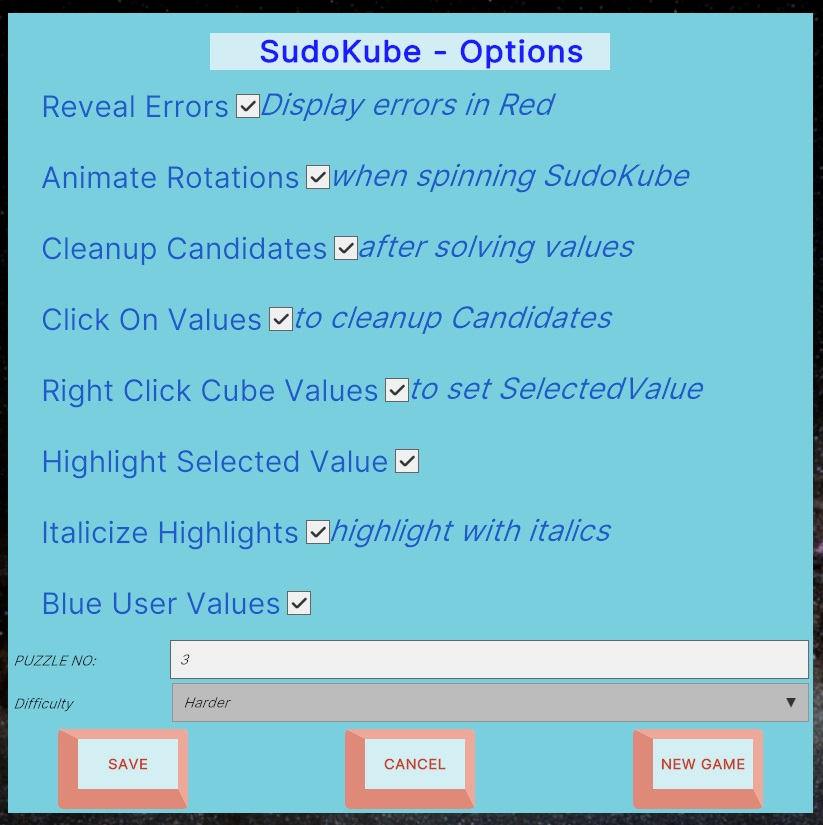
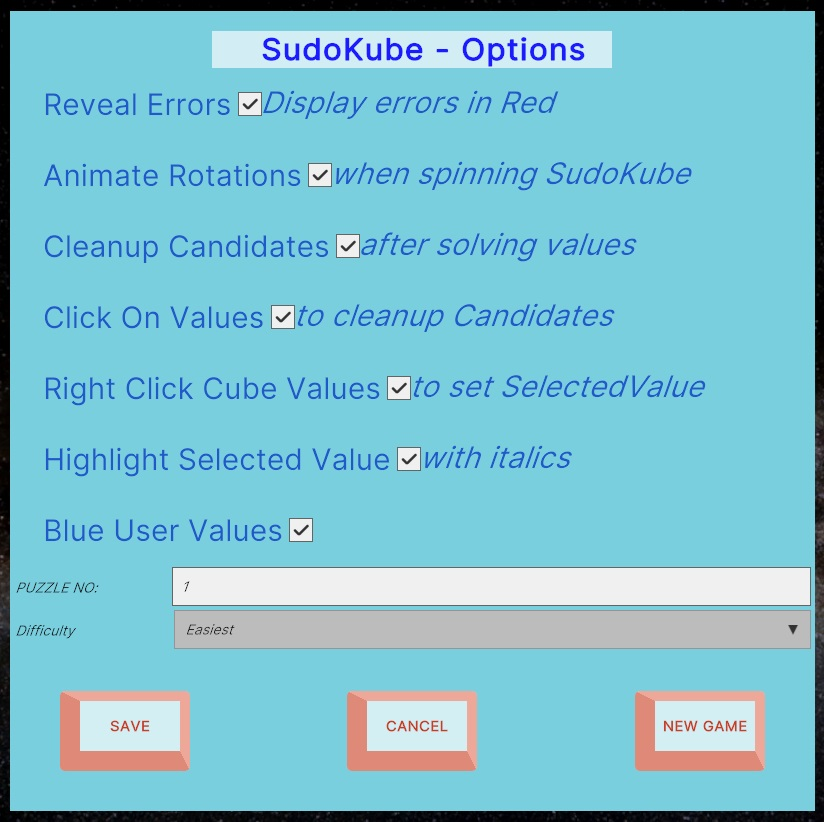
Removed Italicize Highlights from Options Screen
Was redundant (Highlight Selected Value) and unused except in Options Screen

diff --git a/contents/SudoKube_Options.htm b/contents/SudoKube_Options.htm
@@ -17,7 +17,10 @@
     <li><u>Reveal Errors.</u>  When selected, Errors are displayed in Red to indicate that the value is incorrect.  Otherwise incorrect values are presented in black or blue (dependinging on the &quot;Blue User Values&quot; option.</li>
     <li><u>Animate Rotations</u>.  When selected, rotations of the SudoKube are slightly more gradual, making it easier to see which way the Kube was rotated.</li>
     <li><u>Cleanup Candidates.</u>  When a Cell is Solved, all the Candidates with the solution-value effected by the solution are cleared.  These candidates are influenced by the new value.</li>
-    <li><u>Click on Values.</u>  Left-Click on a Solution-Value (correct value for a cell.) to clear all the candidates with that value related to the cell with the solution value.  This is a quick way to clear mulptiple innacurate candidates.</li>
+    <li><u>Click on Values.</u>  Left-Click on a Solution-Value (correct value for a cell.) to clear all the candidates with that value related to the cell with the solution value.  This is a quick way to clear multiple inaccurate candidates.</li>
+    <li><u>Right Click on Values.</u>  This option allows you to right-click on any displayed value in the SudoKube (either your solution-values, or values supplied by the puzzle but not candidate-values) to change the Selected Value to that value.  Subsequent left-clicks on empty cells in the SudoKube sets the cube&#39;s value to the SelectedValue.  Right-clicks on empty cells to set one of the candidates for the cell to that value.</li>
+    <li><u>Highlight Selected Value.</u>  All occurances of the Selected Value in the SudoKube will be <em>Italicized</em> when this option is selected.</li>
+    <li><u>Blue Solution Values</u>  Display correct Solution values in Blue.</li>
   </ol>
   <p></p>
 </body>
